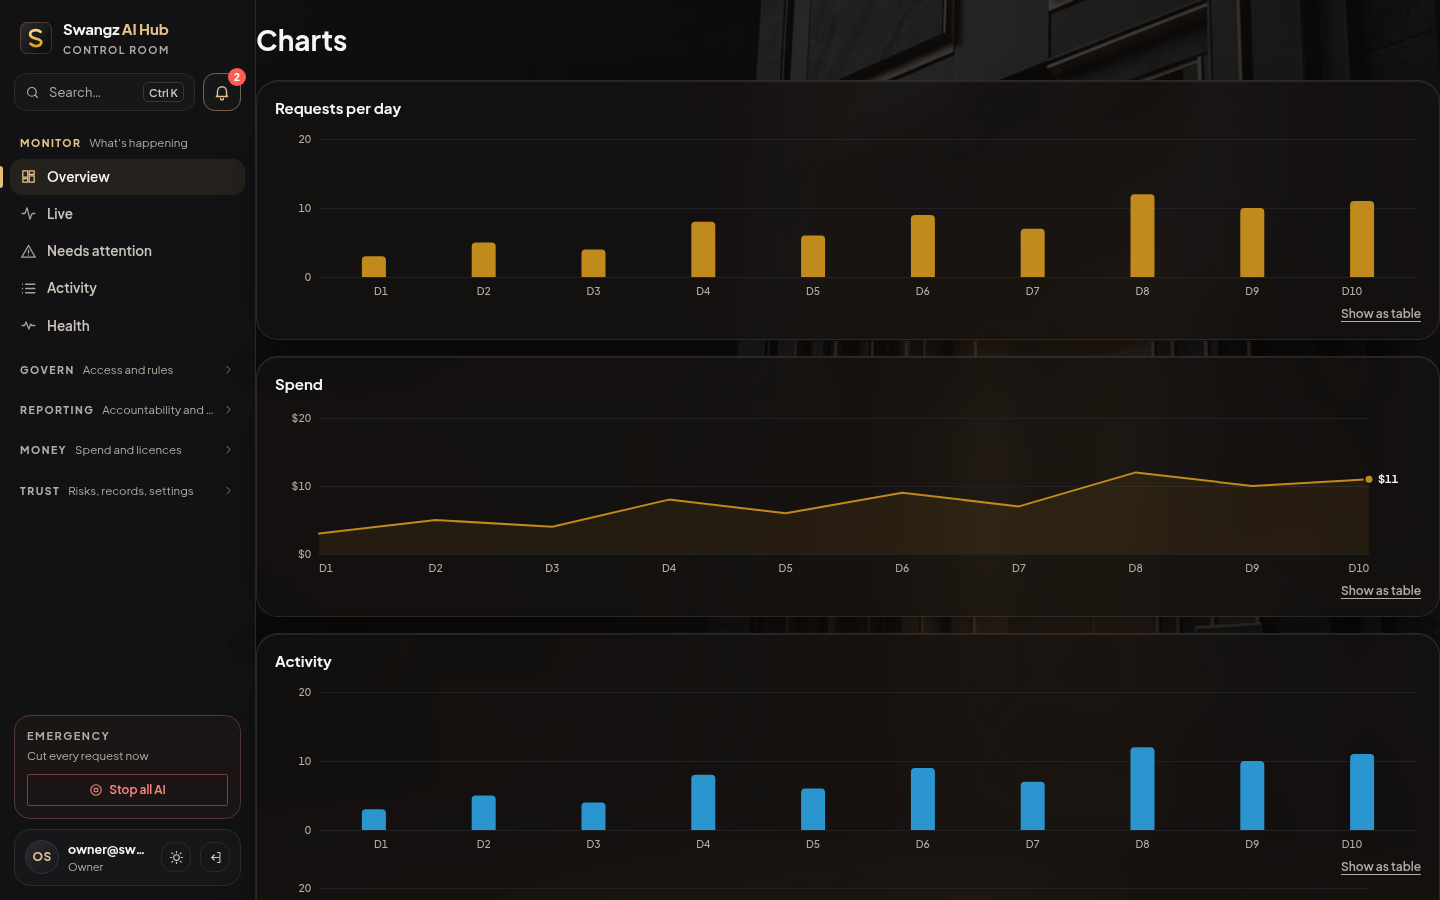
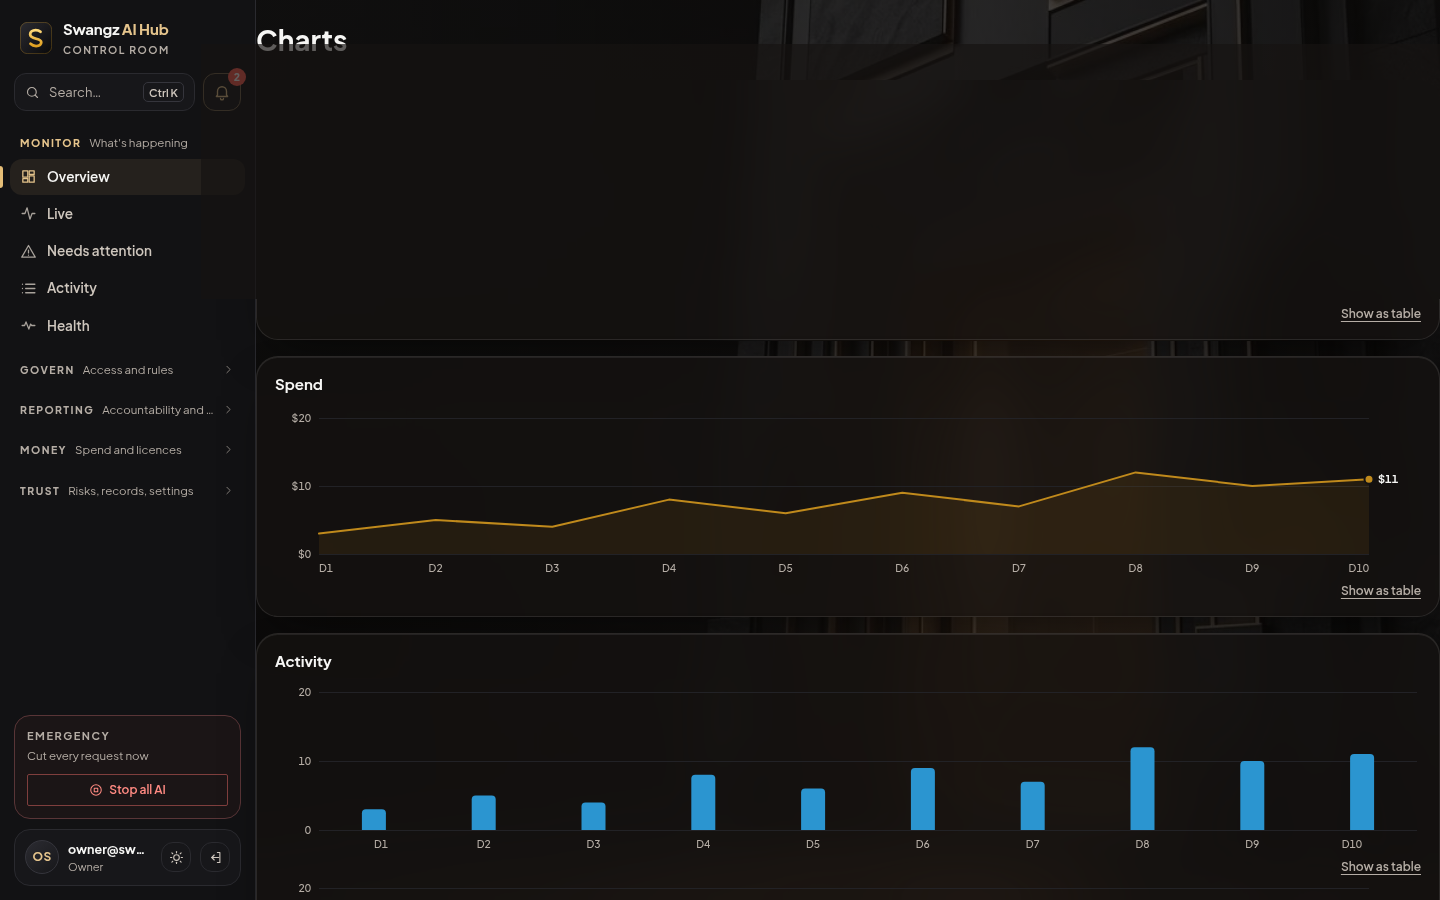
Dark sparkline stroke 1.40 to 4.34:1 with a dark assertion; browser check waits for colour transitions before axe

diff --git a/gateway/static/ui.css b/gateway/static/ui.css
@@ -199,7 +199,7 @@ button[data-tip], a[data-tip] { cursor: pointer; }
 .u-chart.refreshing { opacity: .55; transition: opacity var(--d-base); }
 
 .u-spark { display: block; width: 100%; height: 28px; overflow: visible; }
-.u-spark .line { fill: none; stroke: var(--viz-muted); stroke-width: 1.5; stroke-linejoin: round; stroke-linecap: round; }
+.u-spark .line { fill: none; stroke: var(--pc-spark, #8C857D); stroke-width: 1.5; stroke-linejoin: round; stroke-linecap: round; }
 .u-spark .area { fill: var(--viz-1); opacity: .08; }
 .u-spark .end { fill: var(--viz-1); stroke: var(--ink-1); stroke-width: 2; }
 .u-spark.tone-2 .end { fill: var(--viz-2); }
@@ -219,7 +219,8 @@ button[data-tip], a[data-tip] { cursor: pointer; }
 
 /* Porcelain (light) chart ink. The shared --viz colours are tuned for the dark scene; on milky light glass the
    spend line (2.74:1) and the muted sparkline (1.22:1) fell under the 3:1 non-text limit, so the light theme draws
-   its lines, columns and bars one step deeper. Same hues, measured by tests/browser/porcelain.cjs. */
+   its lines, columns and bars one step deeper. Same hues, measured by tests/browser/porcelain.cjs.
+   The sparkline stroke was --viz-muted (#3A3A42) in dark too, 1.40:1; it now defaults to #8C857D (dark) and --pc-spark in light. */
 :root[data-theme="light"] {
   --pc-1: #96690C; --pc-2: #1A70AC; --pc-spark: #6F675D;
 }

diff --git a/docs/screenshots/glass-r14a/README.md b/docs/screenshots/glass-r14a/README.md
@@ -31,14 +31,19 @@ Each number is the element's own colour against the worst pixel actually painted
 | panel heading | 16.18 | 4.5 |
 
 Before: spend line 2.74 (fail), sparkline 1.22 (fail), spend columns 3.22 and bar fill 3.10 (pass, thin), tone-2 line 3.19.
-Change: light-theme-only block in `ui.css` (`--pc-1` #96690C, `--pc-2` #1A70AC, `--pc-spark` #6F675D) for lines, columns, areas, end dots and bar fills, plus a visible bar track. Dark theme and `tokens.css` untouched.
+Change: light-theme-only block in `ui.css` (`--pc-1` #96690C, `--pc-2` #1A70AC, `--pc-spark` #6F675D) for lines, columns, areas, end dots and bar fills, plus a visible bar track. `tokens.css` untouched.
 
 Decorative, not asserted (a number or table repeats them):
 - grid line (decorative, not asserted): 1.07
 - bar list track (decorative, not asserted): 1.27
 
 ## Left over
-- **Dark sparkline stroke is 1.40:1** (limit 3). Out of this task's light-theme scope; not changed. Fix is a one-line dark override of `.u-spark .line`.
+- **Dark sparkline stroke** was 1.40:1 (limit 3). Fixed: `.u-spark .line` now uses `#8C857D` in dark (light keeps `--pc-spark`). Measured 4.34:1 on the dark glass panel; `porcelain.cjs` now asserts dark as well as light, so a regression fails.
+
+## CI correction (run 42433154182, browser job)
+- Failure: axe on staff Home, quiet-button links (canva / chatgpt / claude) read at about 1.68:1. Cause: the theme flip starts 160-280 ms colour transitions and axe sampled the in-between colours. A race, not a contrast defect; the settled colour is `rgb(77,77,85)`. Reproduced by freezing the transitions at 0% and 10%.
+- Fix: `settle()` in `tests/browser/check.cjs` waits for every finite animation and transition to finish before an axe pass. Endless animations are not waited for. No check was removed or loosened. (`check.cjs` is outside the files first listed for this task; it is the shared check where the failure happened.)
+- Verified locally: `check.cjs` (UI_WIDTH=1440 UI_THEME=light) PASS 383 interaction assertions, 289 screen checks.
 - Light gridlines are 1.07:1 by design (decorative; axis labels carry the values).
 - The end-dot ring colour and glass tube columns (PR #40) are not covered here; the check mounts `SUI.columns` as it exists on this branch (no tube).
 - Frame rate not measured.
